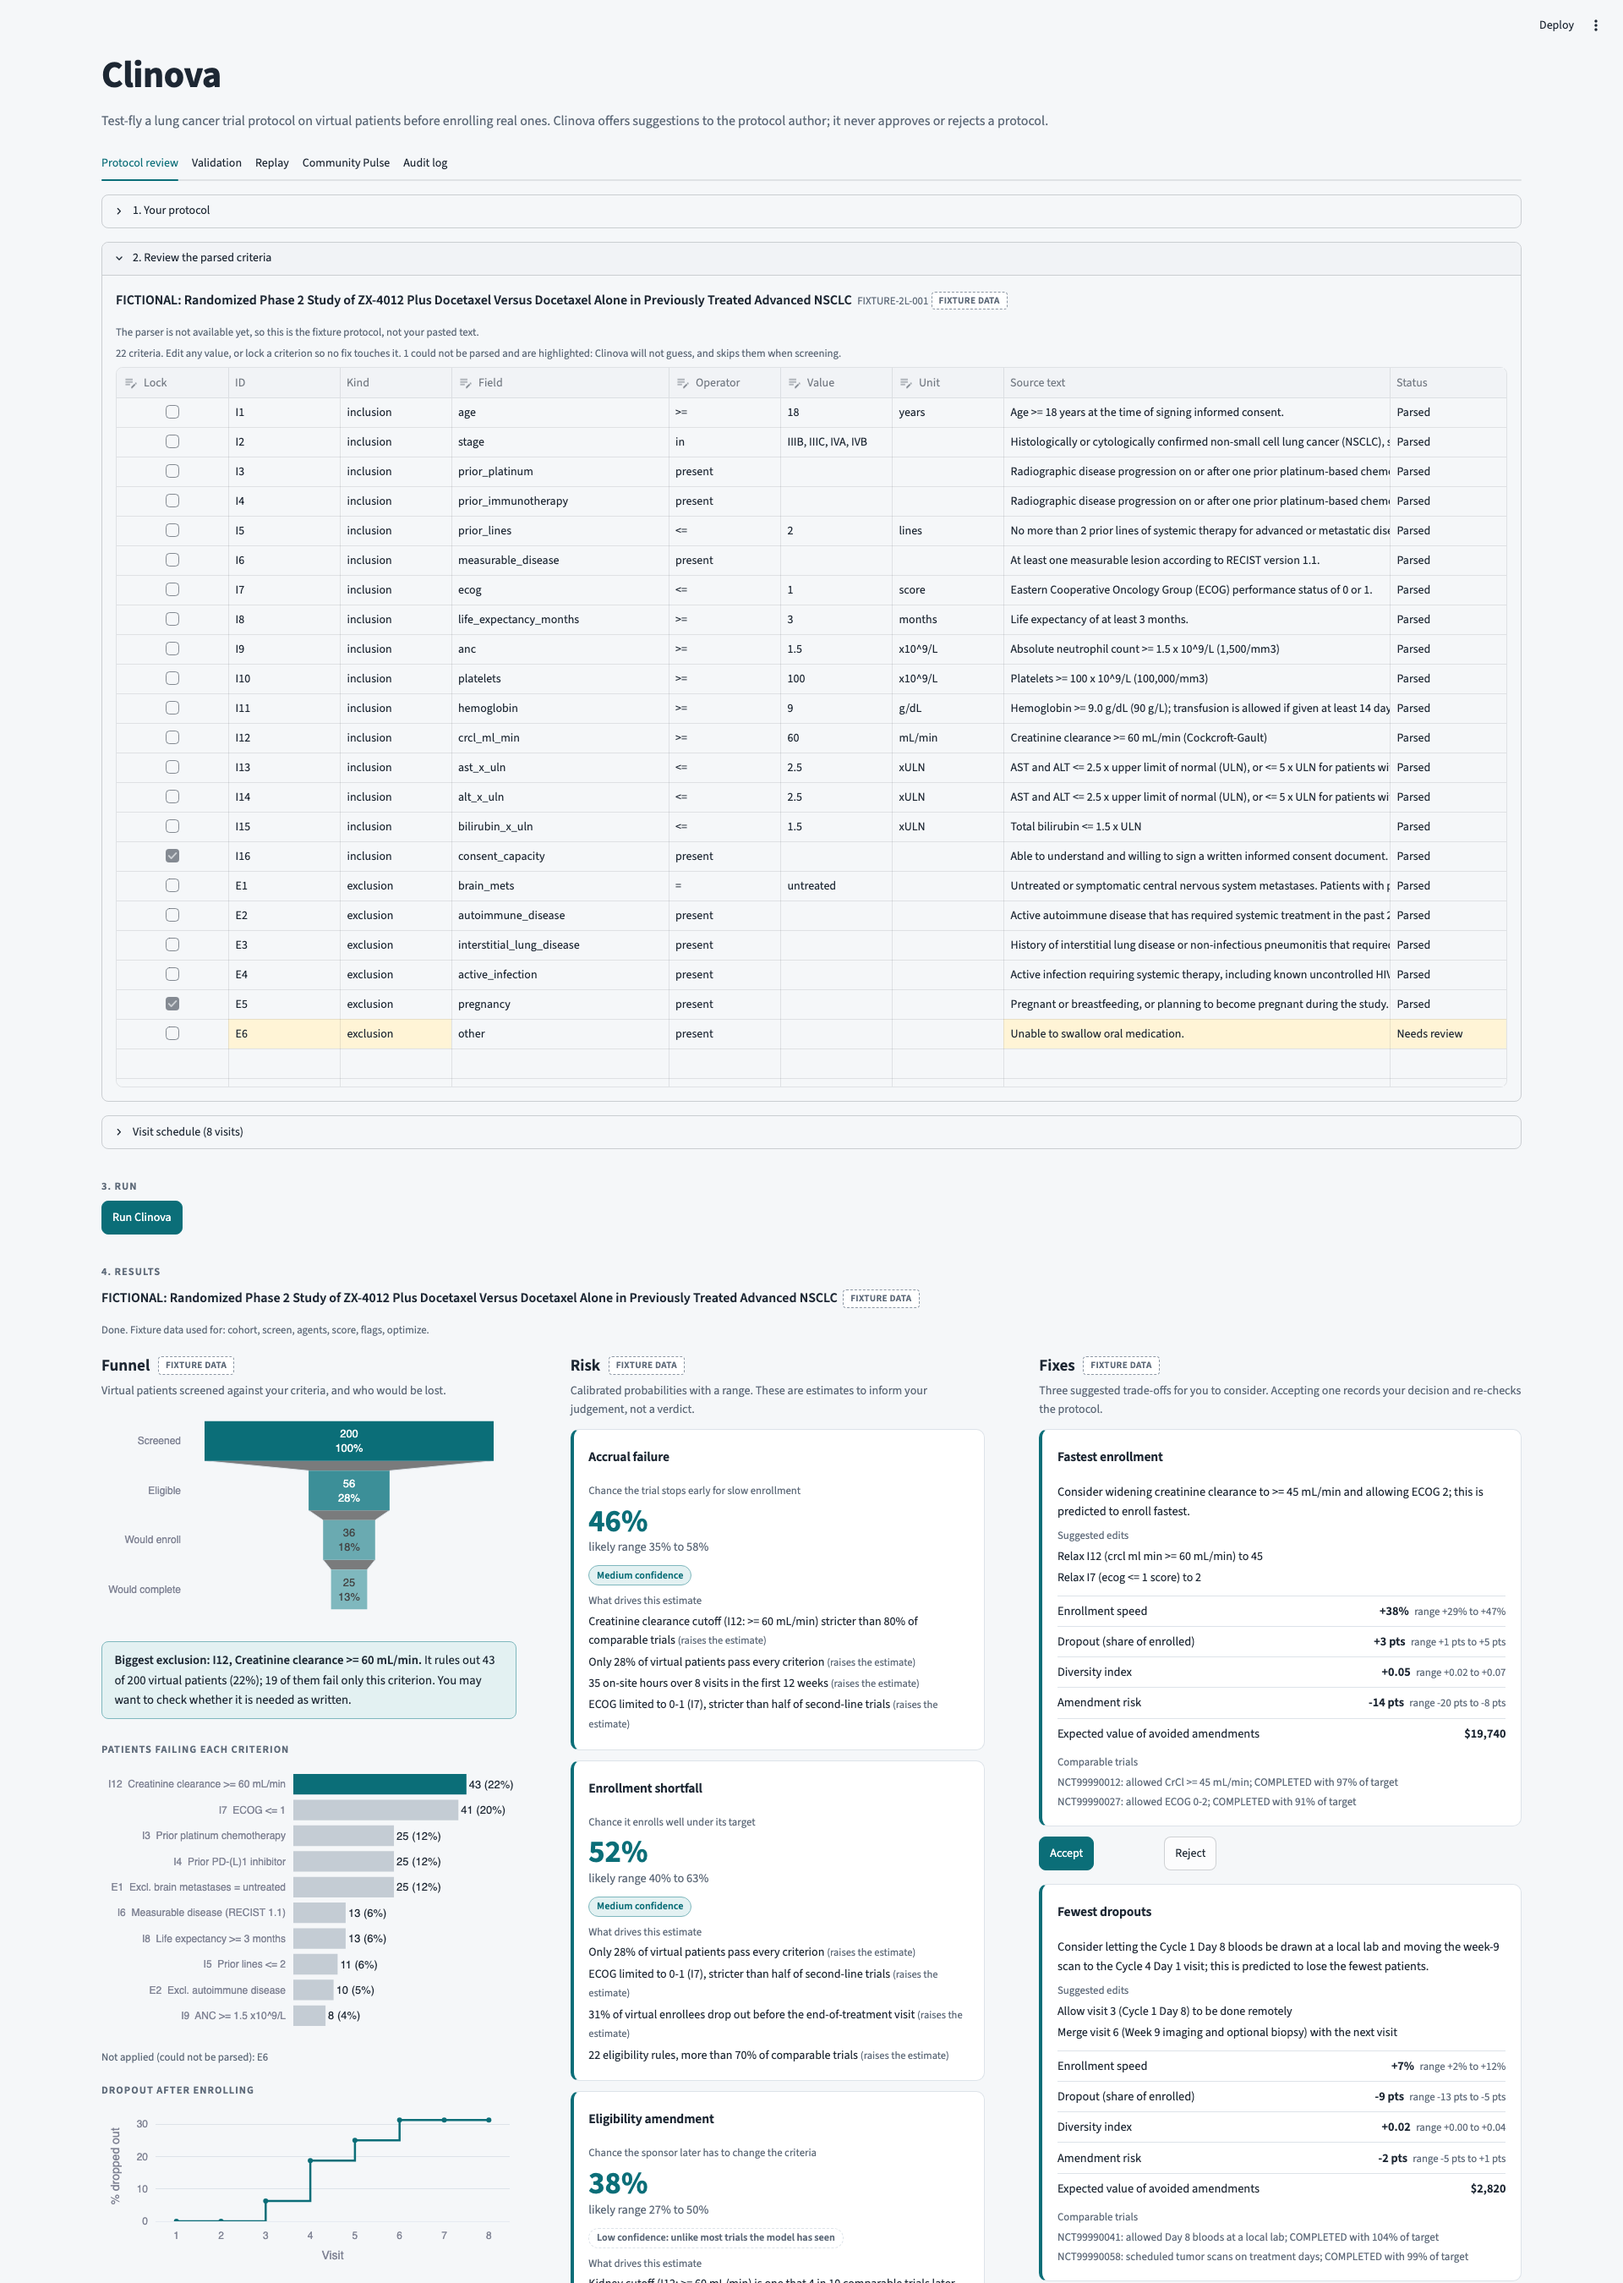
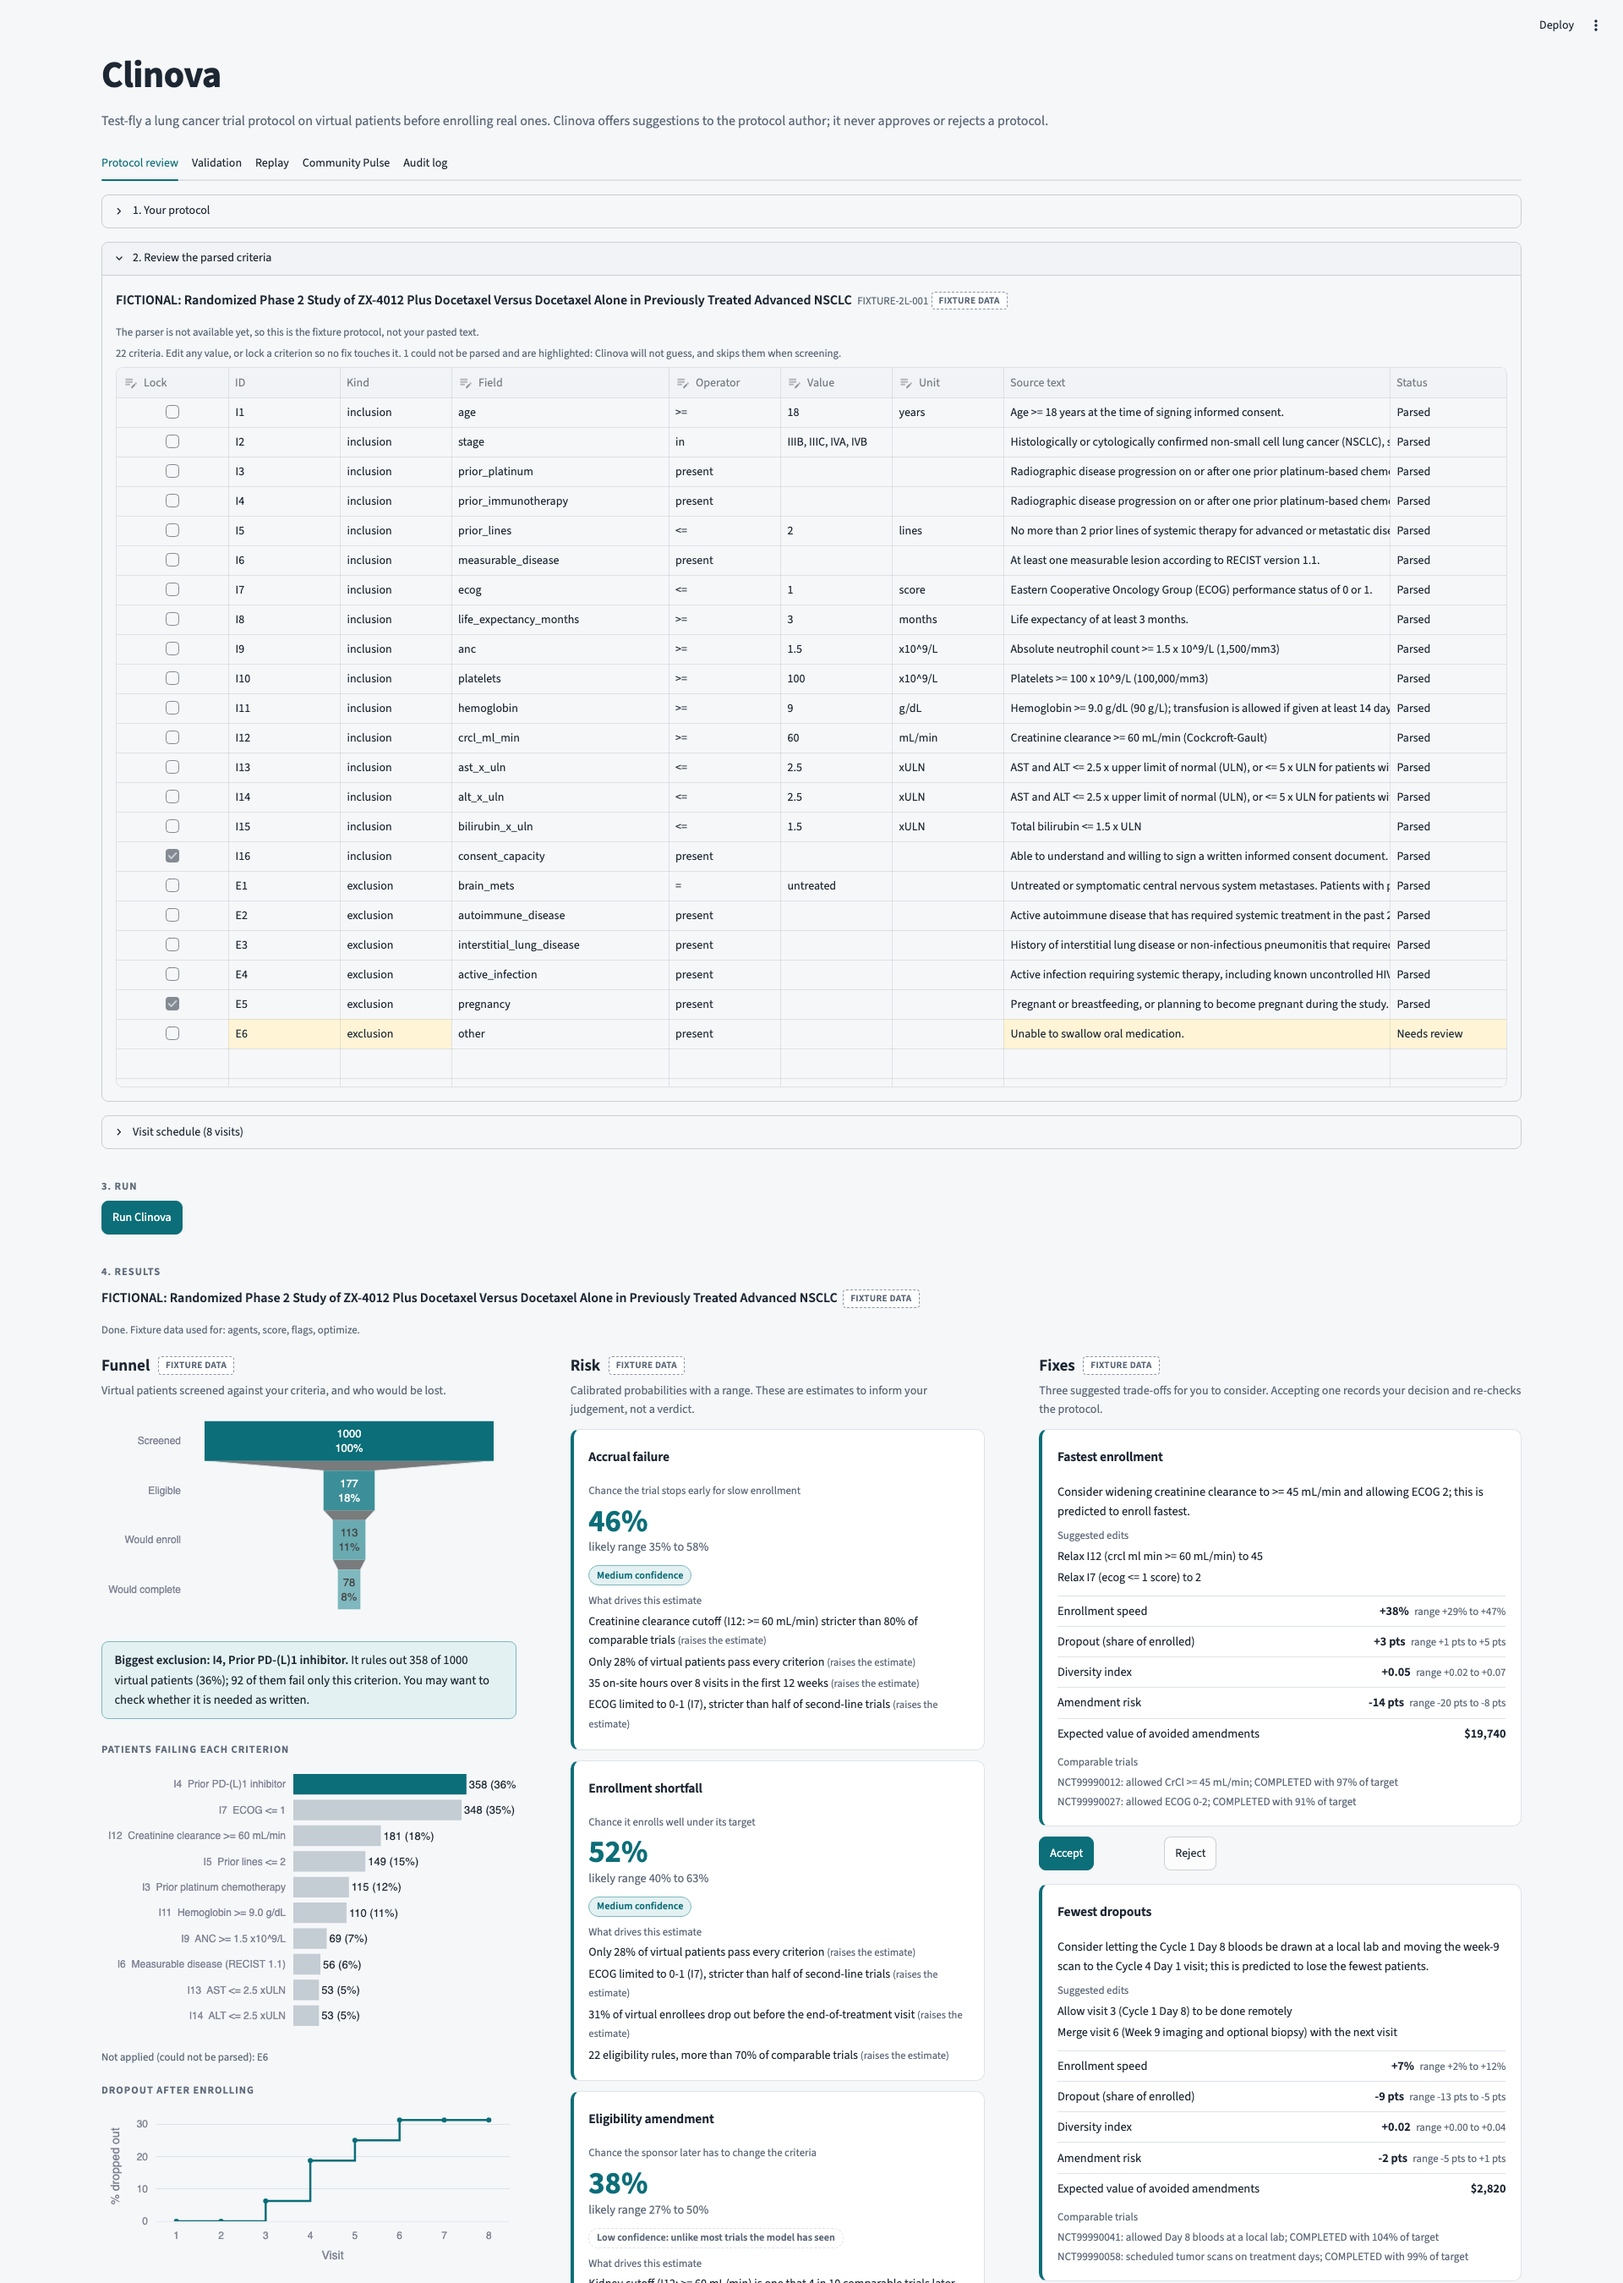
T25: partial: API and app wired to merged modules (parse, cohort, screen, agents, backtest, accept-fix fast re-run, drafts); score, flags, optimize, ledger, surrogate still fixture until Gate 2

diff --git a/tests/api/test_wiring.py b/tests/api/test_wiring.py
@@ -194,7 +194,7 @@ def test_live_backtest_uses_first_version_only_and_logs_backtest_context(client,
     monkeypatch.setattr(live, "protocol_from_trial", fake_first)
     monkeypatch.setattr(live, "parse_text", fake_parse_text)
     monkeypatch.setattr(live, "read_version_events", lambda nct: load_fixture("version_events.json", list[VersionEvent]))
-    monkeypatch.setattr(live, "diff_rules", lambda a, b: [RuleChange(field="crcl_ml_min", change="relaxed", old_rule_id="I12", new_rule_id="I12", old="ge 60", new="ge 45")])
+    monkeypatch.setattr(live, "diff_rules", lambda a, b: [RuleChange(field="crcl_ml_min", change="relaxed", old_rule_id="I12", new_rule_id="I12", old="ge 60", new="ge 45")] if isinstance(a, list) and isinstance(b, list) else 1 / 0)
     monkeypatch.setattr(live, "score", lambda p, sim=None, **k: load_fixture("risk_scores.json", list[RiskScore]))
     monkeypatch.setattr(live, "_need_db", lambda: None)
     recorded: list[tuple[str, str]] = []

diff --git a/clinova/api/quick.py b/clinova/api/quick.py
@@ -116,7 +116,7 @@ def measures(res: RunResult, diversity_index: float | None = None) -> Measures:
     risk = {r.target.value: r.p for r in res.risks}
     n = len(sims)
     return Measures(
-        eligible_frac=(sum(s.eligible_frac for s in sims) / n) if n else (res.funnel.eligible_frac if res.funnel else None),
+        eligible_frac=res.funnel.eligible_frac if res.funnel else ((sum(s.eligible_frac for s in sims) / n) if n else None),
         enroll_rate=(sum(s.enroll_rate for s in sims) / n) if n else None,
         dropout_rate=(1.0 - sum(s.completion_rate for s in sims) / n) if n else None,
         diversity_index=diversity_index,

diff --git a/clinova/api/backtest.py b/clinova/api/backtest.py
@@ -34,7 +34,7 @@ def _rule_changes(trial: TrialRecord, first) -> list[RuleChange]:
         return []
     try:
         parsed_now = live.parse_text(current, None, trial_id=f"{trial.nct_id}-current", phase=trial.phase)
-        return live.diff_rules(first, parsed_now)
+        return live.diff_rules(first.rules, parsed_now.rules)  # diff_rules takes rule lists
     except Exception as exc:
         log.warning("rule diff for %s unavailable: %s", trial.nct_id, type(exc).__name__)
         return []

diff --git a/docs/handoff/T25.md b/docs/handoff/T25.md
@@ -1,0 +1,45 @@
+# T25 handoff: API and app wiring
+
+Branch `task/T25-api` (T15 shell merged, then `origin/main` at gate/1 merged; main's version won outside `clinova/api` and `clinova/app`). Owns `clinova/api/`, `clinova/app/`, table `drafts`, `tests/api/`, `tests/app/`, `docs/screens/`.
+
+## What works
+- **POST /runs** (from T15, kept): background thread, stage by stage (parse, cohort, screen, agents, score, flags, optimize). Every score is logged through `loop.ledger.record_prediction` with context `live` (or `backtest`, or `fixture`); when the ledger is a stub or the database is down it goes to the in-memory audit.
+- **Live run verified** on the demo trial NCT03232892 (database up, live Gemini or cache): parse, cohort, screen and agents ran the real modules (about 20 s); score, flags and optimize used fixtures (T22/T23 not merged), so the run says `source: fixture` and `Fixture data used for: score, flags, optimize.`.
+- **GET /trials/{nct}/backtest** (`clinova/api/backtest.py`): loads the trial, parses the FIRST registered version only (`protocol_from_trial`), runs the pipeline synchronously with context `backtest`, attaches `trial_versions` events and rule changes (parse of the current text, `parse.diff.diff_rules` on rule lists). Cached per trial in memory; one build per trial at a time. Verified live on NCT03232892: rule changes prior_platinum removed, cardiac_condition removed, prior_lines added (same as G1's report). `events` is empty because `trial_versions` has 0 rows (T11 history pass not run yet). Falls back to the fixture backtest for NCT99999901 or when the database is unreachable.
+- **POST /fixes/accept** (new, `AcceptRequest` / `AcceptResponse`): logs the accept via `record_feedback` (memory fallback), applies the fix's edits (`apply_edits_local`), then the fast re-run in `clinova/api/quick.py`: re-screen the cached cohort per seed, `Surrogate.score` before and after, scale the run's own agent rates by the surrogate's relative change, re-score with `model.predict.score`, diversity via `simulate.diversity`. No Gemini calls (tested by stubbing `common.llm`). Returns before and after `Measures` and `basis`: `quick_rerun`, or `optimizer_estimate` (the fix's own deltas; used while any stage is missing). Locked or unknown edit target gives 422.
+- **drafts table**: pasted text parsed by `/protocols/parse` or `/runs` is saved (`live.save_draft`, best effort, upsert) with its parse.
+- `/validation`, `/replay`, `/pulse`, `/audit`: unchanged from T15 (read `docs/metrics.json`, `docs/replay.json`, `docs/pulse/<id>.md`, ledger tables); T16 was cut so the pulse says "not run".
+- **Fallbacks**: `live.FALLBACK_ERRORS` = `NotImplementedError`, `LiveUnavailable`, `CacheMiss` (demo mode) and `BudgetExceeded`. A stage that raises one uses its fixture and the run is tagged. Fixture flags and fixes are NOT attached to a non-fixture protocol (they name the fixture's rule ids; accepting one would edit the wrong rule), so a real trial shows "Fix suggestions are not available yet" until the optimizer is merged. Fixture risk scores are still shown on real trials, tagged "Fixture data".
+- **App**: Accept now calls `/fixes/accept` and shows the before and after table with a Basis column (re-run vs optimizer estimate); "not estimated" where the optimizer gives no number; backtest call timeout raised to 15 minutes (a first live backtest runs the whole pipeline). Progress view, reveal timeline and the "fixture data" tag unchanged. Screenshots retaken in `docs/screens/01..09`, looked at them; only 04 predates the last tweak (before/after "Eligible" row now uses the funnel, to match the funnel panel).
+- `make check`: 247 passed (new: `tests/api/test_wiring.py`, one client test in `tests/app`).
+
+## What Gate 2 must swap or check
+1. `live.score`, `live.flag_criteria`, `live.optimize` already call `model.predict.score(protocol, sim=sims)`, `flag_criteria(protocol, k=3)`, `optimize.search.optimize(protocol, max_edits=3)`; once they stop raising `NotImplementedError` the fixtures drop out by themselves. Check the real `Fix.edits` use `target_id` of the same protocol (accept relies on that).
+2. `live.record_prediction` / `record_feedback` call the T21 ledger signatures; verify rows appear in `predictions` / `feedback` and that `/audit` shows them.
+3. The fast re-run needs a fitted surrogate at `DATA_DIR/models/surrogate.json` (T24). Until it exists `/fixes/accept` returns `optimizer_estimate`. With it: check `Surrogate.score(protocol, eligible_df)` accepts the eligible rows (that is what is passed) and that before and after rates look sane. The quick re-run is untested against the real surrogate and model (only against stand-ins at the `clinova.api.live` seam).
+4. `trial_versions` is empty, so the reveal timeline shows no events on live trials until T11's history pass runs.
+5. The backtest of a trial with changed eligibility parses the current text with Gemini (cached in `llm_cache`).
+
+## How to run
+```
+uv run python -m clinova.api --port 8000                     # database and Gemini from .env
+CLINOVA_API_NO_DB=1 uv run python -m clinova.api --port 8000   # offline, fixtures
+CLINOVA_API_URL=http://127.0.0.1:8000 uv run python -m clinova.app
+uv run python -m clinova.app.screenshots --url http://127.0.0.1:8501
+```
+`CLINOVA_MODE=demo` makes cache misses fall back to fixtures per stage instead of calling Gemini.
+
+## Background jobs
+None left running (dev servers on 8125 and 8525 were stopped).
+
+## Numbers produced
+None as results. Live run of NCT03232892: first-version funnel eligible fraction 22.9% for the first seed (from the backtest call); everything downstream of the agents is fixture.
+
+## Decisions
+- Fast re-run scales the run's measured rates by the surrogate's relative change (so "before" equals what the panels already show) instead of showing raw surrogate values on one side.
+- What-if re-runs after accepting a fix are not logged as predictions (they are not a protocol anyone registered); the accept itself is logged as feedback.
+- No contract change needed.
+
+## Open issues
+- Mixed offline mode: with the database down but the cohort and screen real, the funnel is live while risks and fixes are fixture; the message says which.
+- `/pulse` reads `docs/pulse/<id>.md` directly (compatible with T16's `load_pulse`).
